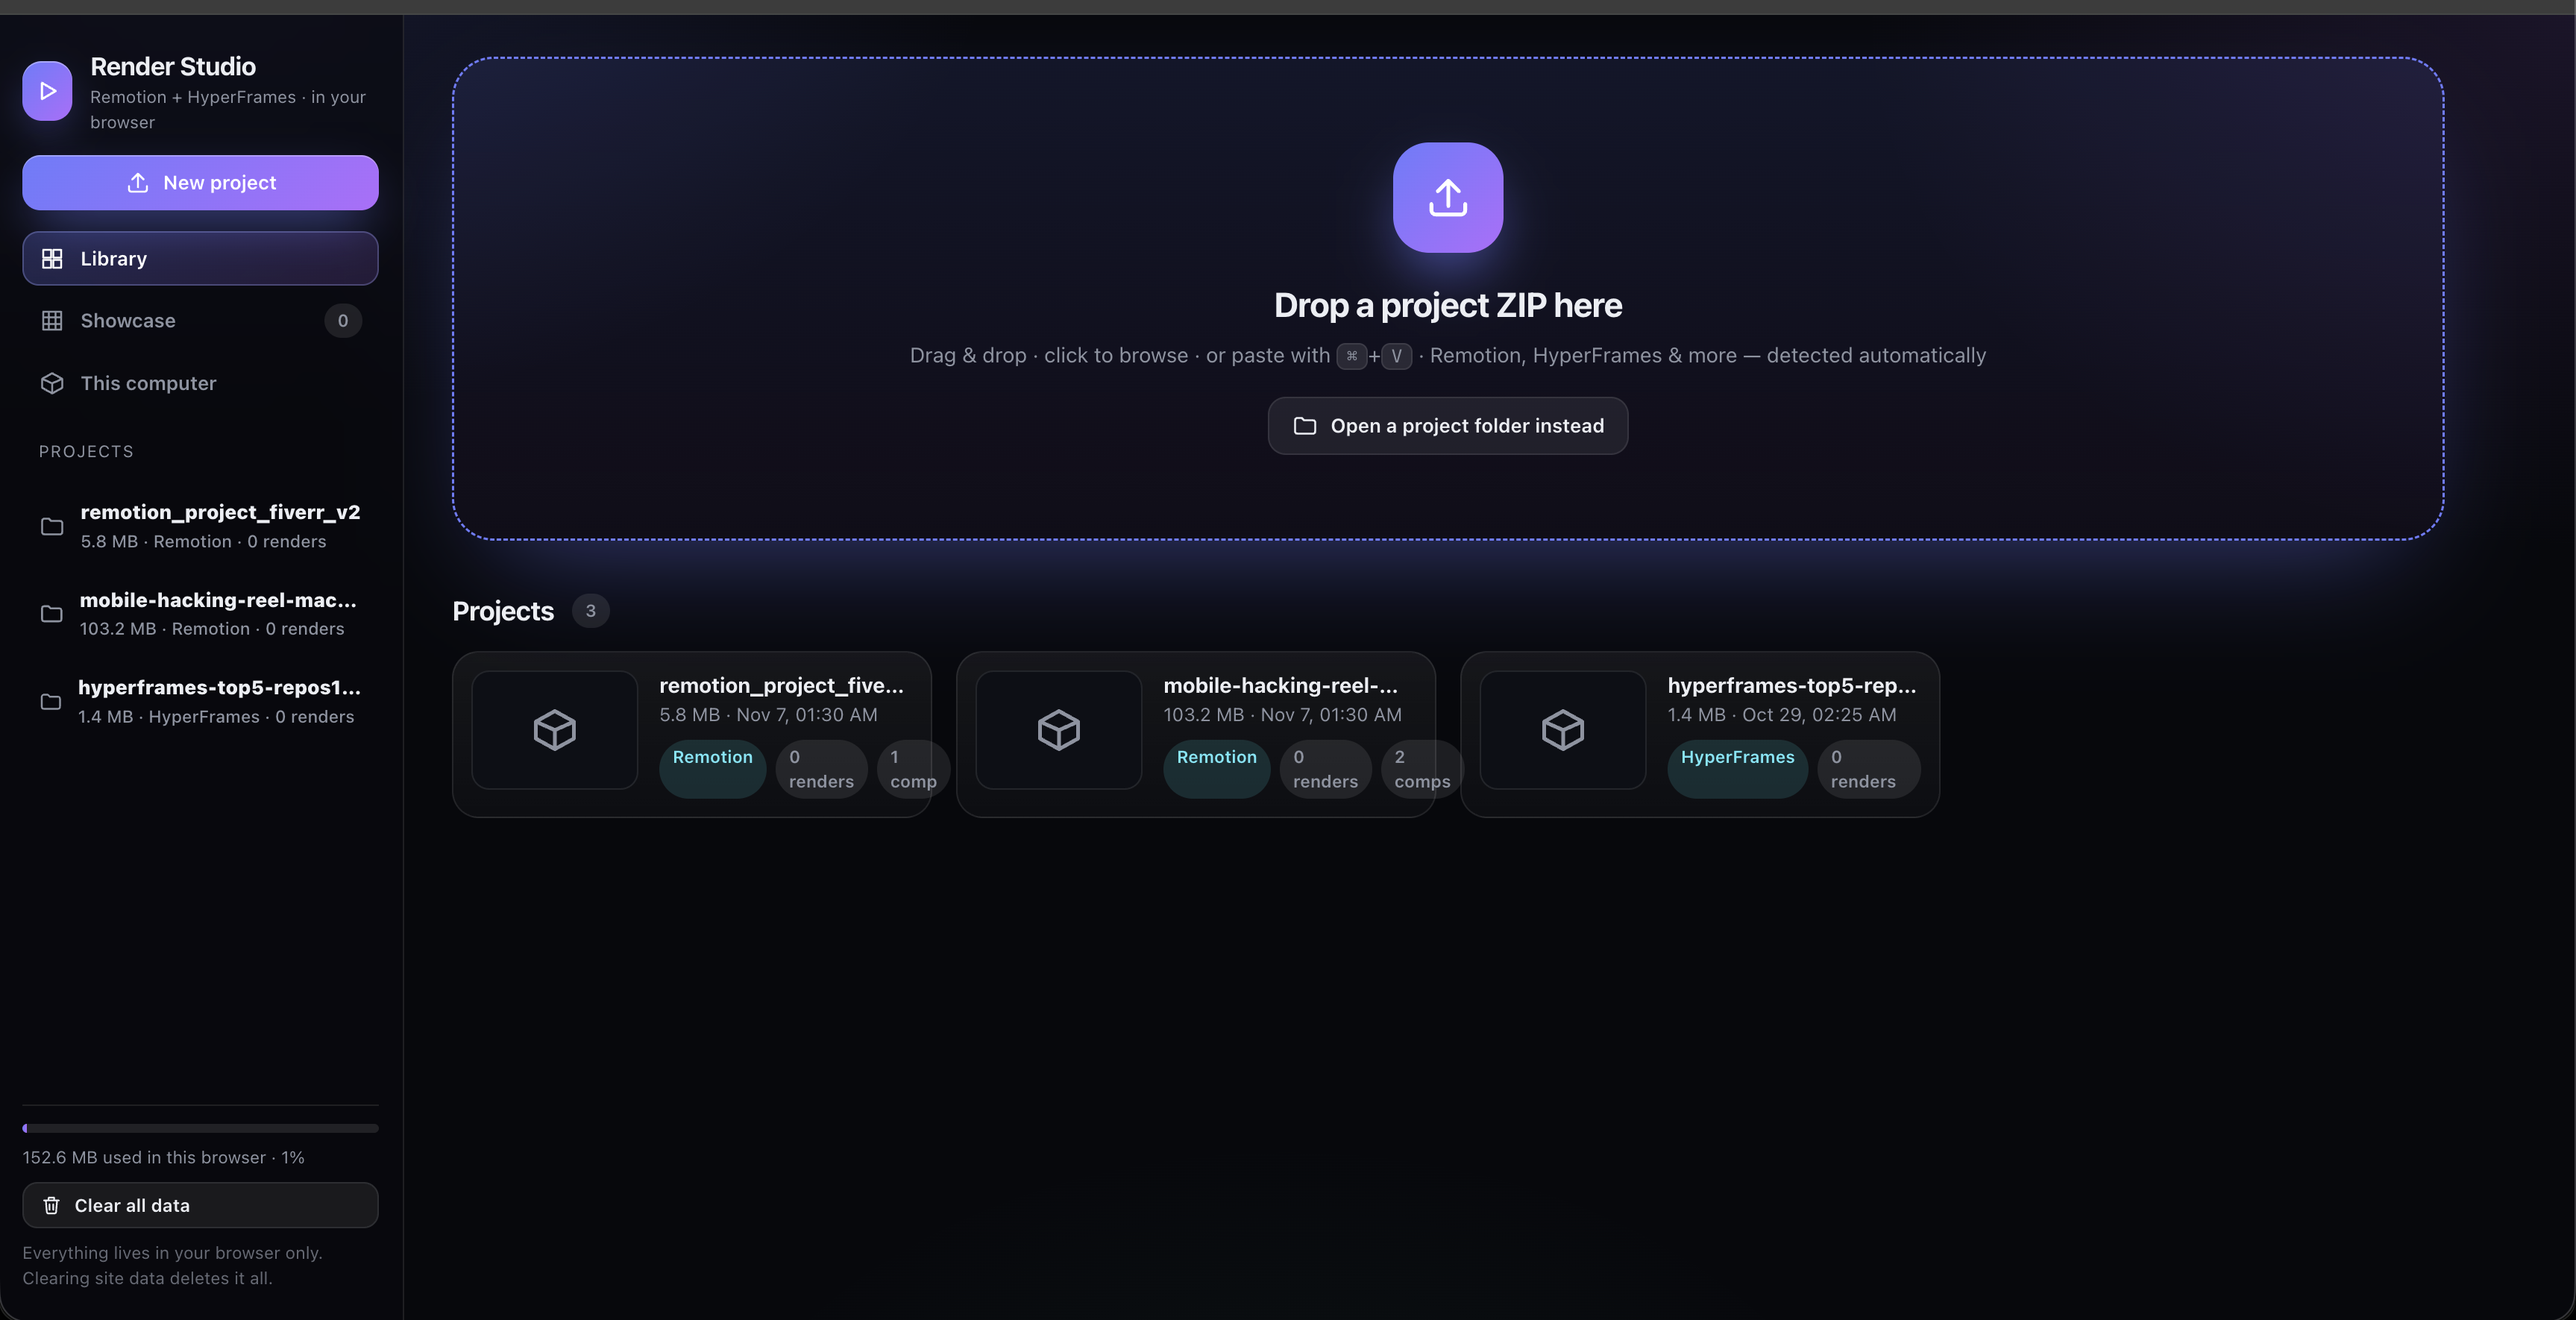
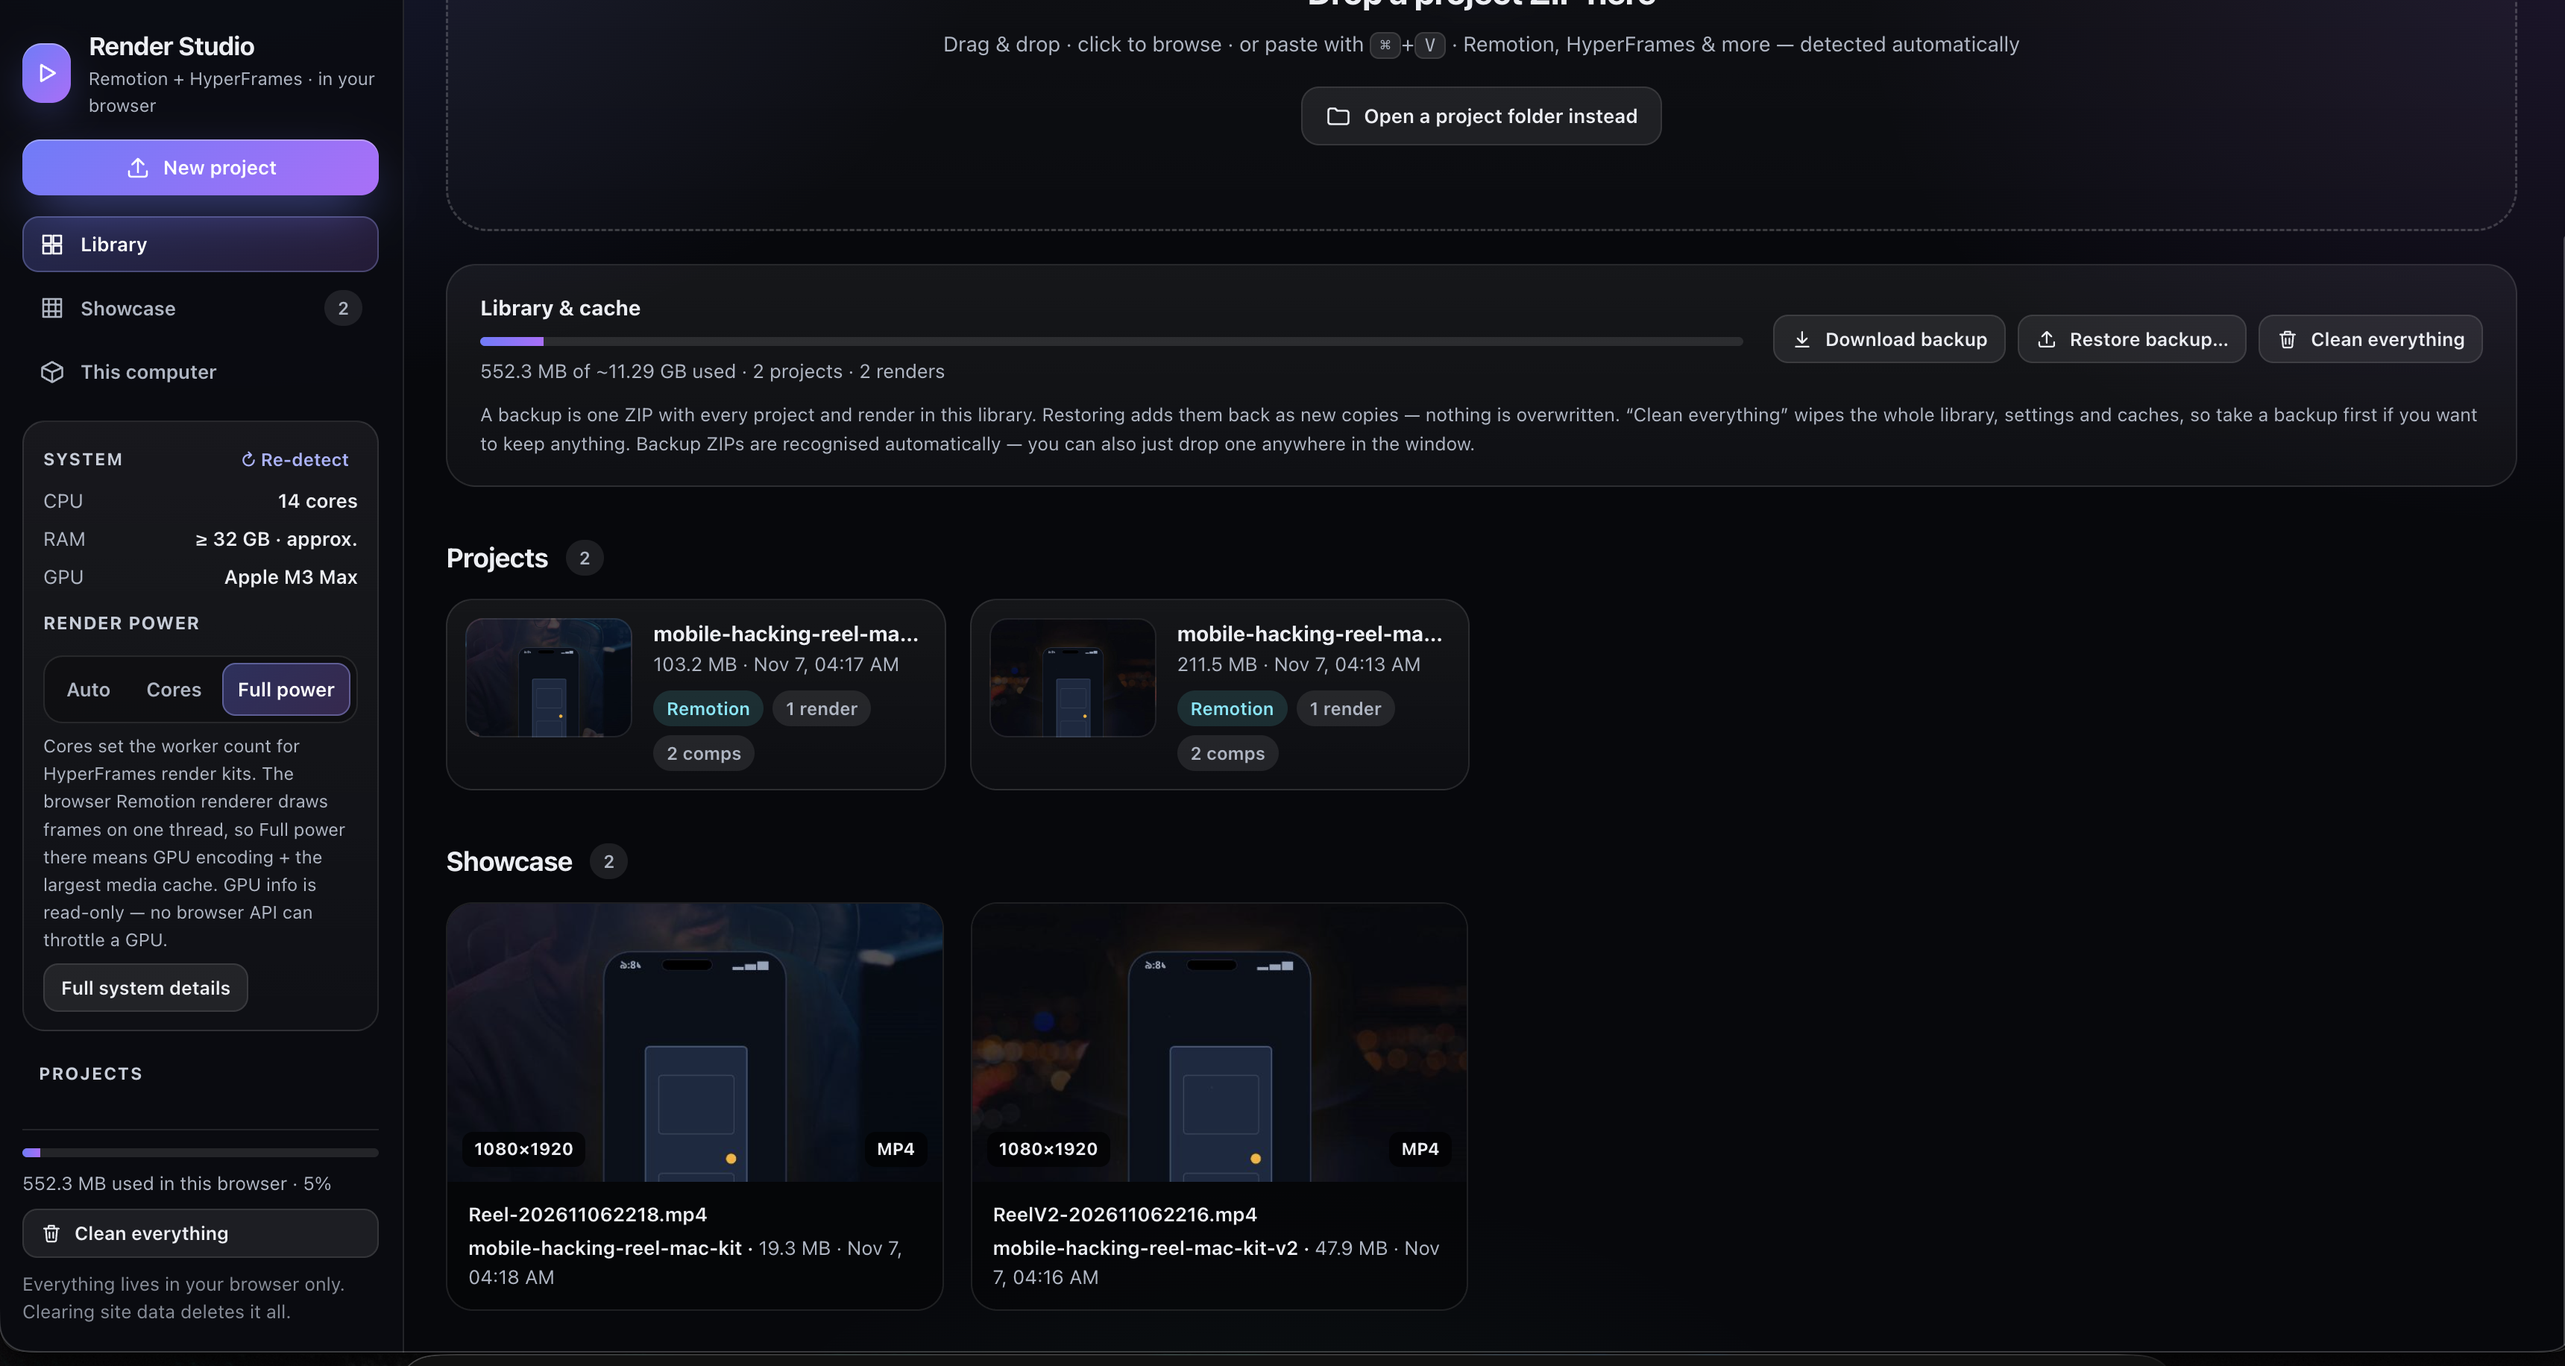
Rename to remotion-render-studio: SEO README pass, FAQ, latest screenshots
- Keyword-rich opening (render Remotion in the browser, no server/Node/CLI) + prominent live-demo link
- Screenshots updated to the latest studio version: mid-render live stats (rendering-live), Library & cache with backup/restore (library), This computer page; old studio.png removed
- Social card regenerated: new repo URL, latest render screenshot inset
- FAQ (serverless rendering, Node, offline, privacy, project support, licensing) + affiliation disclaimer

diff --git a/README.md b/README.md
@@ -12,7 +12,11 @@
 
 # Render Studio
 
-**An offline, in-browser render studio for Remotion and HyperFrames projects — one single HTML file. No server, no install, nothing to sign up for: open the file, drop a project ZIP, and render finished videos right in your browser.**
+**Render Remotion videos right in your browser — no server, no Node.js install, no command line.** Render Studio is a free, offline, single-file web app: open one HTML file, drop in a Remotion project ZIP, preview it live, and export the finished video with WebCodecs. HyperFrames projects are supported too — and nothing you drop in is ever uploaded; everything stays on your machine.
+
+### [▶ Try the live demo](https://remotionstudio24.vercel.app/)
+
+No download needed — or grab the single HTML file from the [latest release](https://github.com/shaonwork/remotion-render-studio/releases) and run it fully offline.
 
 ![Remotion](https://img.shields.io/badge/Remotion-4.0.539-0b84f3)
 ![HyperFrames](https://img.shields.io/badge/HyperFrames-supported-00f5ff)
@@ -26,9 +30,9 @@
 
 *Render Studio — Remotion + HyperFrames, rendered entirely in your browser.*
 
-![Render Studio with a vertical Remotion project loaded — live preview, plain-language render settings, and the System panel showing the machine it runs on](docs/screenshots/studio.png)
+![Render Studio rendering a vertical Remotion video, with the live render details panel showing frames rendered and encoded, render speed, ETA, processor cores and memory](docs/screenshots/rendering-live.png)
 
-*The studio on a real project: a 1080×1920 Remotion composition previewed live, with the render panel and the auto-detected System card (CPU cores, RAM, GPU) beside it.*
+*A render in progress: the live details panel shows rendered/encoded frames, measured render speed (fps), elapsed and remaining time, the machine's processor cores and the tab's memory — while the video encodes with WebCodecs.*
 
 **Live version:** https://remotionstudio24.vercel.app — or run the exact same studio offline from [`single/Render-Studio.html`](single/Render-Studio.html).
 
@@ -50,9 +54,13 @@ Projects and renders are stored in the browser's own IndexedDB. **Your files nev
 
 ## Screenshots
 
-![The Library — drop zone and all your projects in one place](docs/screenshots/library.png)
+![The Library — storage meter, backup and restore buttons, project list and finished renders in the Showcase](docs/screenshots/library.png)
 
-*The Library: drop a project ZIP anywhere in the window, click to browse, or paste — every project you have opened stays here, with its renders.*
+*The Library: the "Library & cache" card shows how much space the library is using, with one-click backup (one ZIP holding every project and render), restore, and "Clean everything". Your projects and finished renders live below it.*
+
+![The "This computer" page — detected operating system, CPU threads, memory, GPU and browser, render power modes, and the video encoder support table](docs/screenshots/this-computer.png)
+
+*"This computer": the studio detects your machine automatically — OS, CPU threads, memory, GPU and browser — lets you choose how much render power to use, and lists which video encoders (H264, H265, VP9, AV1, VP8) your browser supports.*
 
 ## Features
 
@@ -106,7 +114,7 @@ npm run build          # plain Vite build → dist/
 ## Project structure
 
 ```
-render-studio/
+remotion-render-studio/
 ├─ single/                  the deliverable — one self-contained HTML file
 │  ├─ Render-Studio.html
 │  └─ README-OFFLINE.txt
@@ -127,6 +135,27 @@ render-studio/
 - **Remotion licensing:** the studio defaults to `free-license`, which is only for individuals and teams that qualify for Remotion's [Free License](https://remotion.dev/license). Companies enter their license key under *Advanced settings → Remotion license key*.
 - **Supported imports** in uploaded Remotion projects: `remotion`, `react`, `@remotion/{transitions, shapes, paths, noise, layout-utils, media}`, `zod`. The classic `<Audio>` / `<Video>` / `<OffthreadVideo>` components are mapped to `@remotion/media` automatically.
 - **HyperFrames preview:** projects that load their own extra runtime scripts may behave slightly differently in the preview; the generated render kit always produces the exact official render.
+- **Affiliation:** Render Studio is an independent community tool. It is not affiliated with, sponsored, or endorsed by Remotion AG or HeyGen.
+
+## FAQ
+
+**Can I render Remotion videos without a server?**
+Yes — that is the point of this studio. Remotion projects are compiled and rendered entirely in your browser with WebCodecs. There is no render server, no queue, and no upload.
+
+**Do I need Node.js installed?**
+No. There is nothing to install: the studio is one self-contained HTML file, with the compiler (the WebAssembly build of esbuild) inlined. Just open it in desktop Chrome or Edge.
+
+**Does it work offline?**
+Yes. The single-file build runs from `file://` with no internet connection at all. (The hosted live demo needs internet only to load the page the first time.)
+
+**Are my files uploaded anywhere?**
+No. Projects, renders and settings are stored in your browser's own IndexedDB, on your machine. There is no backend: the studio never sends your projects or videos anywhere.
+
+**Remotion or HyperFrames — which projects work?**
+Both. Drop a ZIP and the type is detected automatically. Remotion projects are compiled, previewed and rendered in the browser; HyperFrames projects play in the built-in player and can be exported as a render kit for the official desktop tool. OpenMontage exports and skill packs are recognised too.
+
+**What does it cost, and which license applies?**
+The studio is free and open source under the MIT License. Remotion itself is covered by Remotion's own license (free for individuals and small teams — see the licensing note above); that license applies to Remotion, not to this studio.
 
 ## License
 
